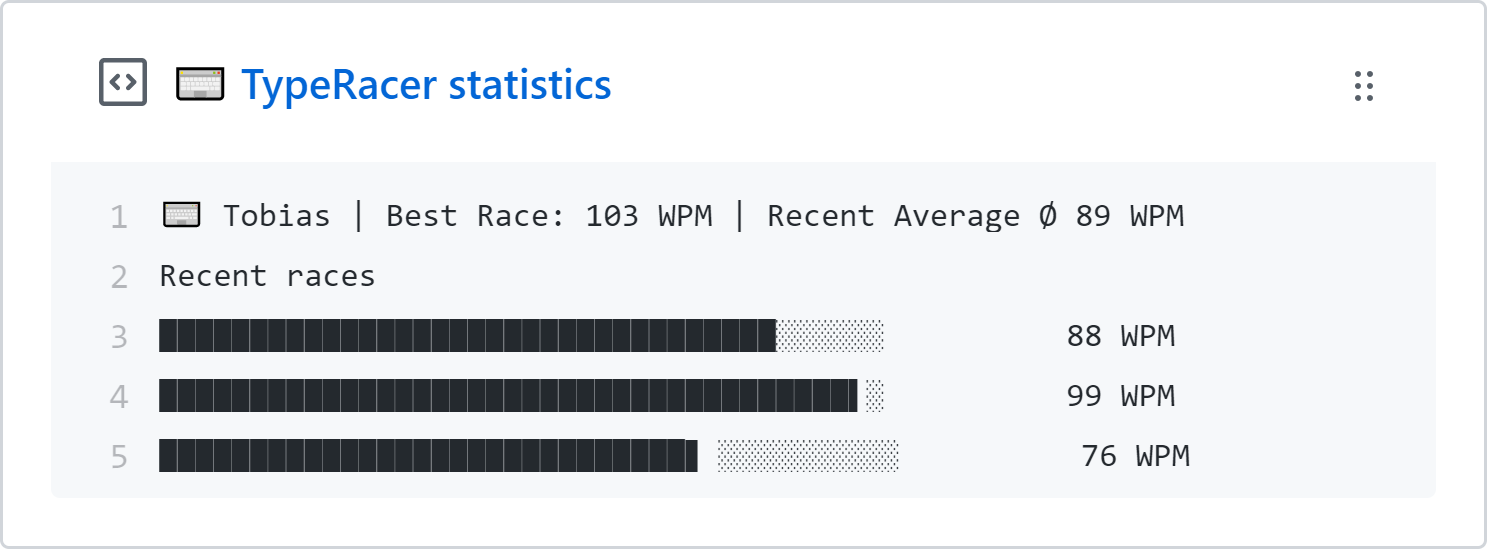
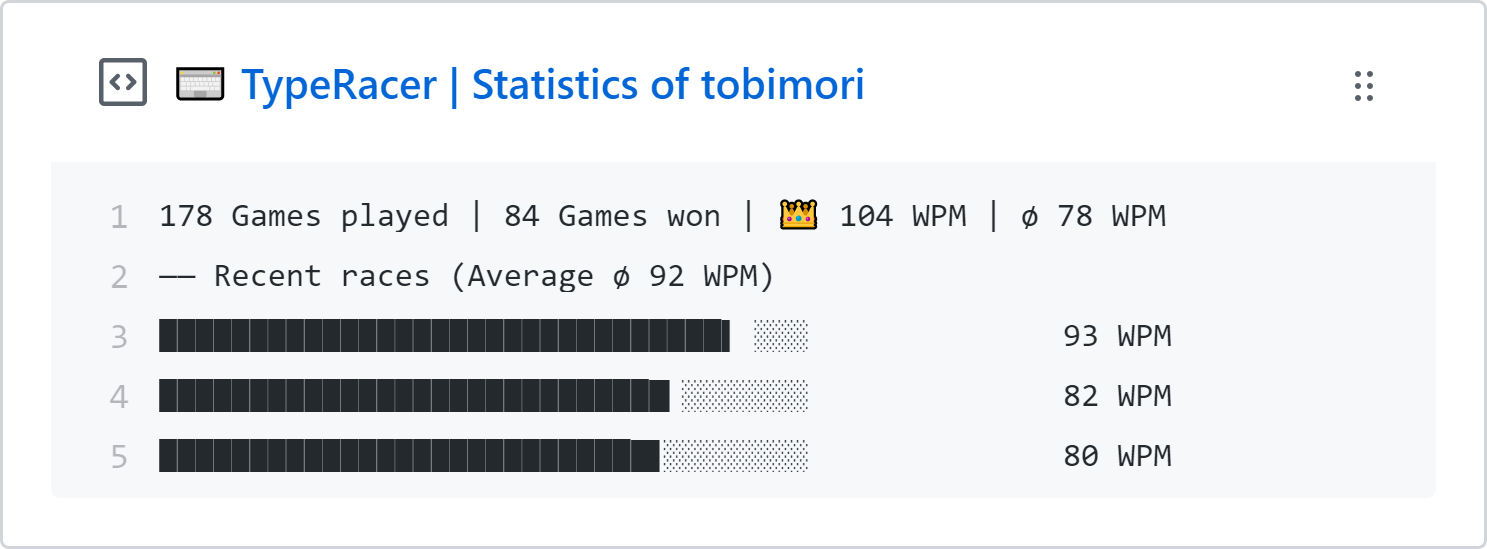
✨ update stats design

diff --git a/index.js b/index.js
@@ -36,13 +36,13 @@ async function main () {
   }
 
   const lines = [
-    `⌨ ${data.name} | Best Race: ${Math.round(data.tstats.bestGameWpm)} WPM | Recent Average Ø ${Math.round(data.tstats.recentAvgWpm)} WPM`,
-    'Recent races'
+    `${data.tstats.cg} Games played | ${data.tstats.gamesWon} Games won | 👑 ${Math.round(data.tstats.bestGameWpm)} WPM | ø ${Math.round(data.tstats.wpm)} WPM`,
+    `―― Recent races (Average ø ${Math.round(data.tstats.recentAvgWpm)} WPM)`
   ]
 
   for (let i = 0; i < data.tstats.recentScores.length; i++) {
     const wpm = Math.round(data.tstats.recentScores[i])
-    const chart = generateBarChart(data.tstats.recentScores[i] * 100 / data.tstats.bestGameWpm, 40)
+    const chart = generateBarChart(data.tstats.recentScores[i] * 100 / data.tstats.bestGameWpm, 35)
 
     lines.push([
       chart,
@@ -56,7 +56,7 @@ async function main () {
       gist_id: gistId,
       files: {
         [filename]: {
-          filename: '⌨ TypeRacer statistics',
+          filename: `⌨ TypeRacer | Statistics of ${username}`,
           content: lines.join('\n')
         }
       }
